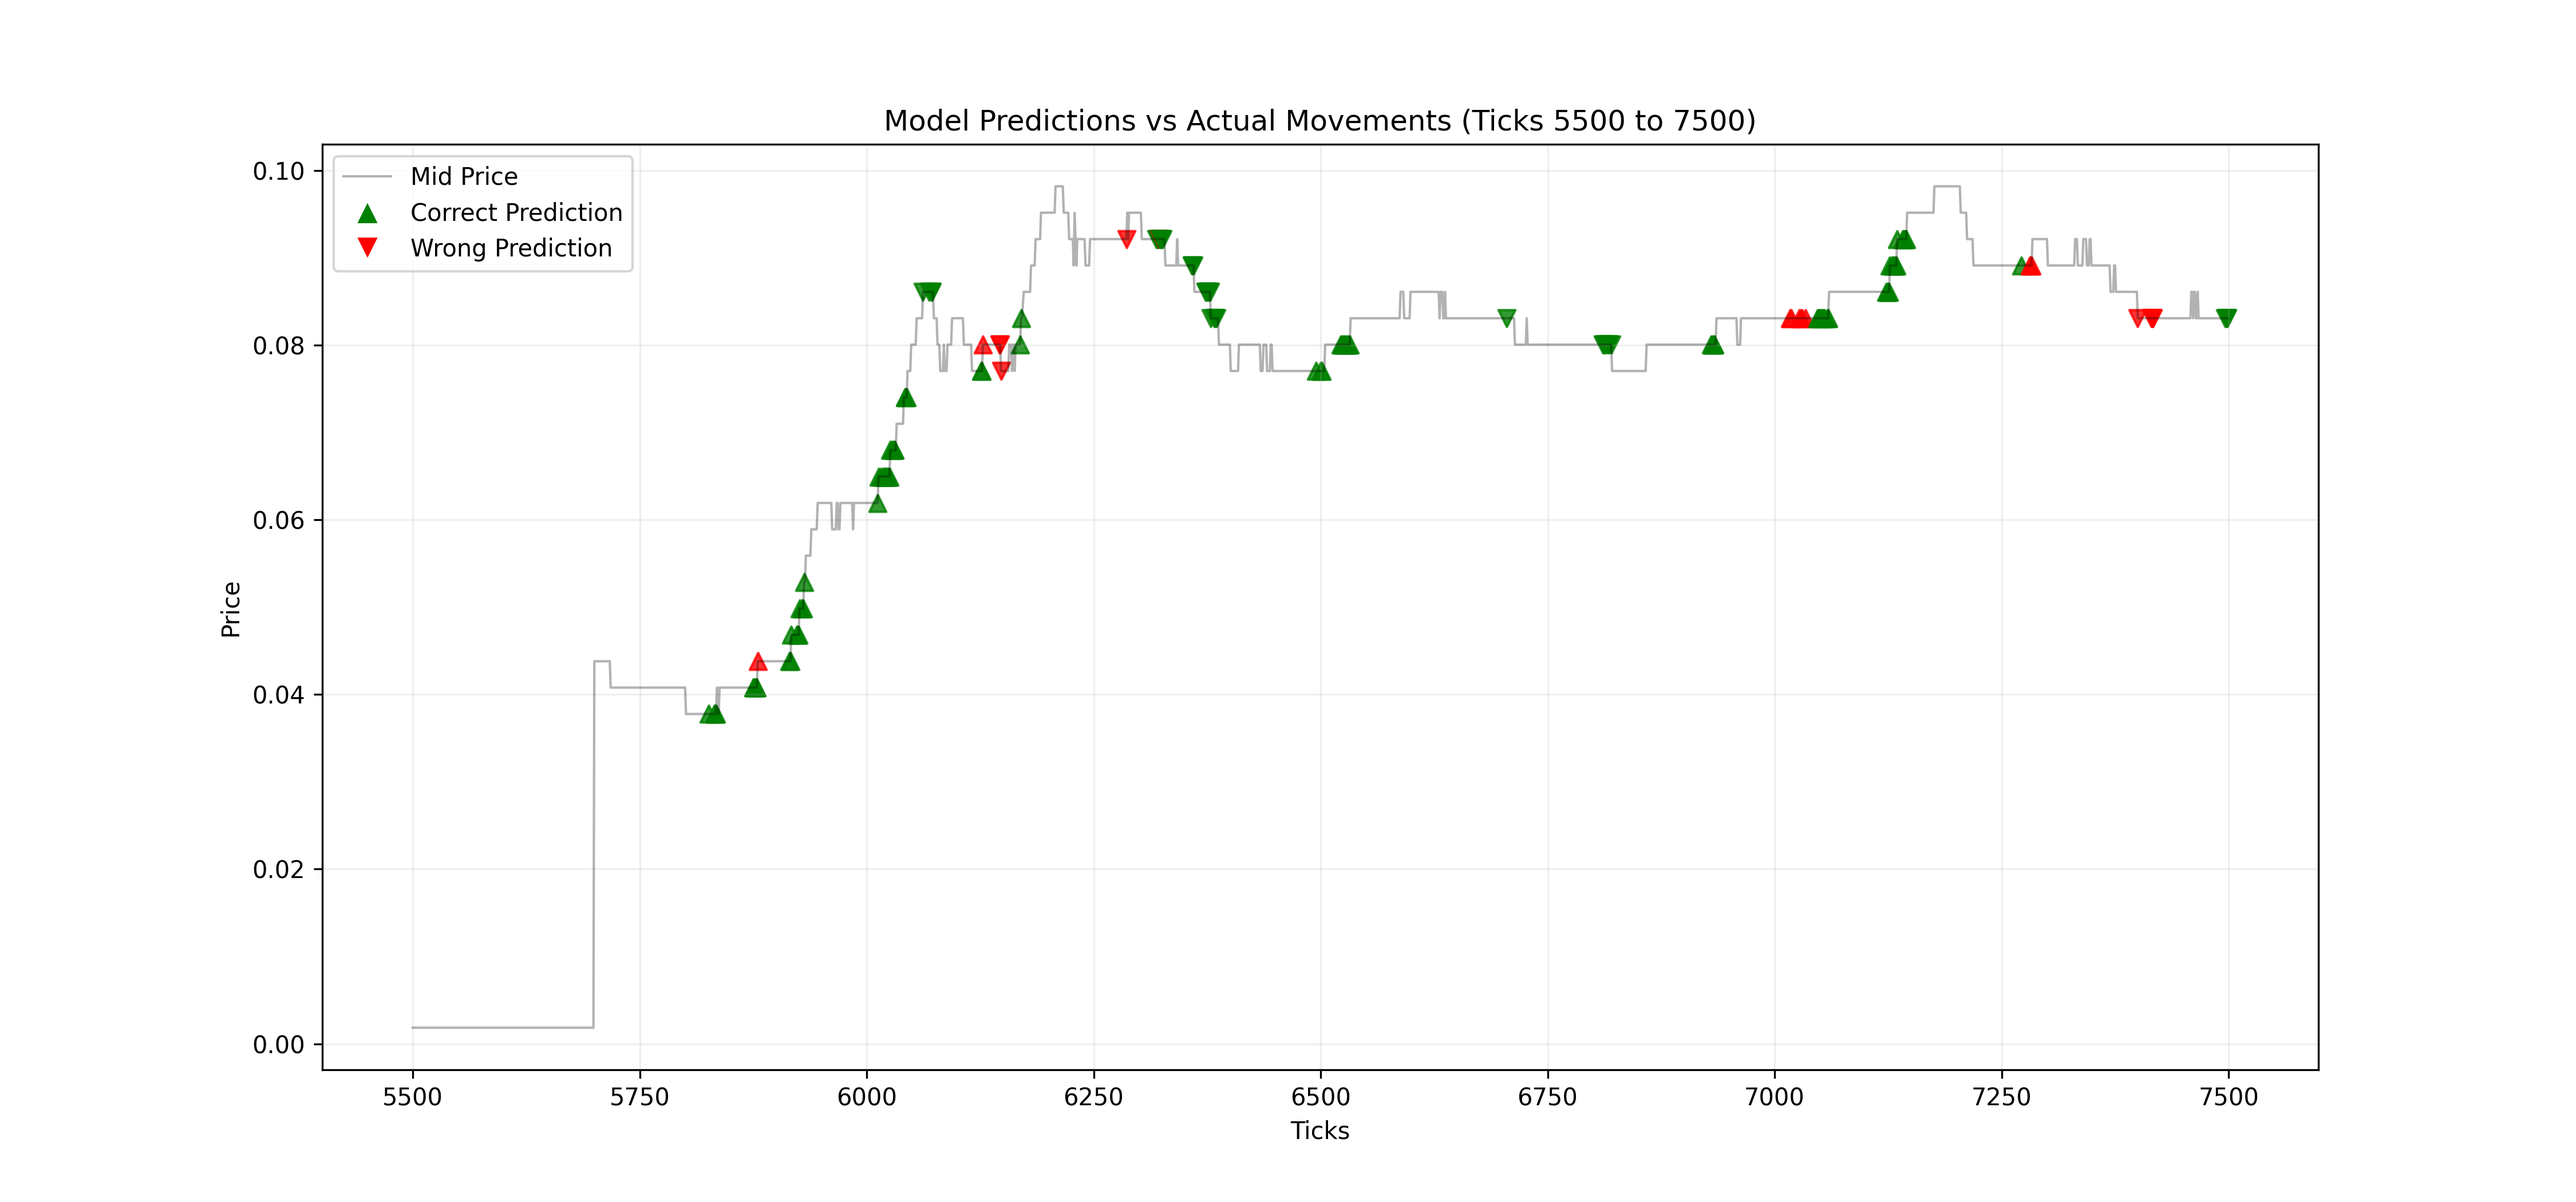
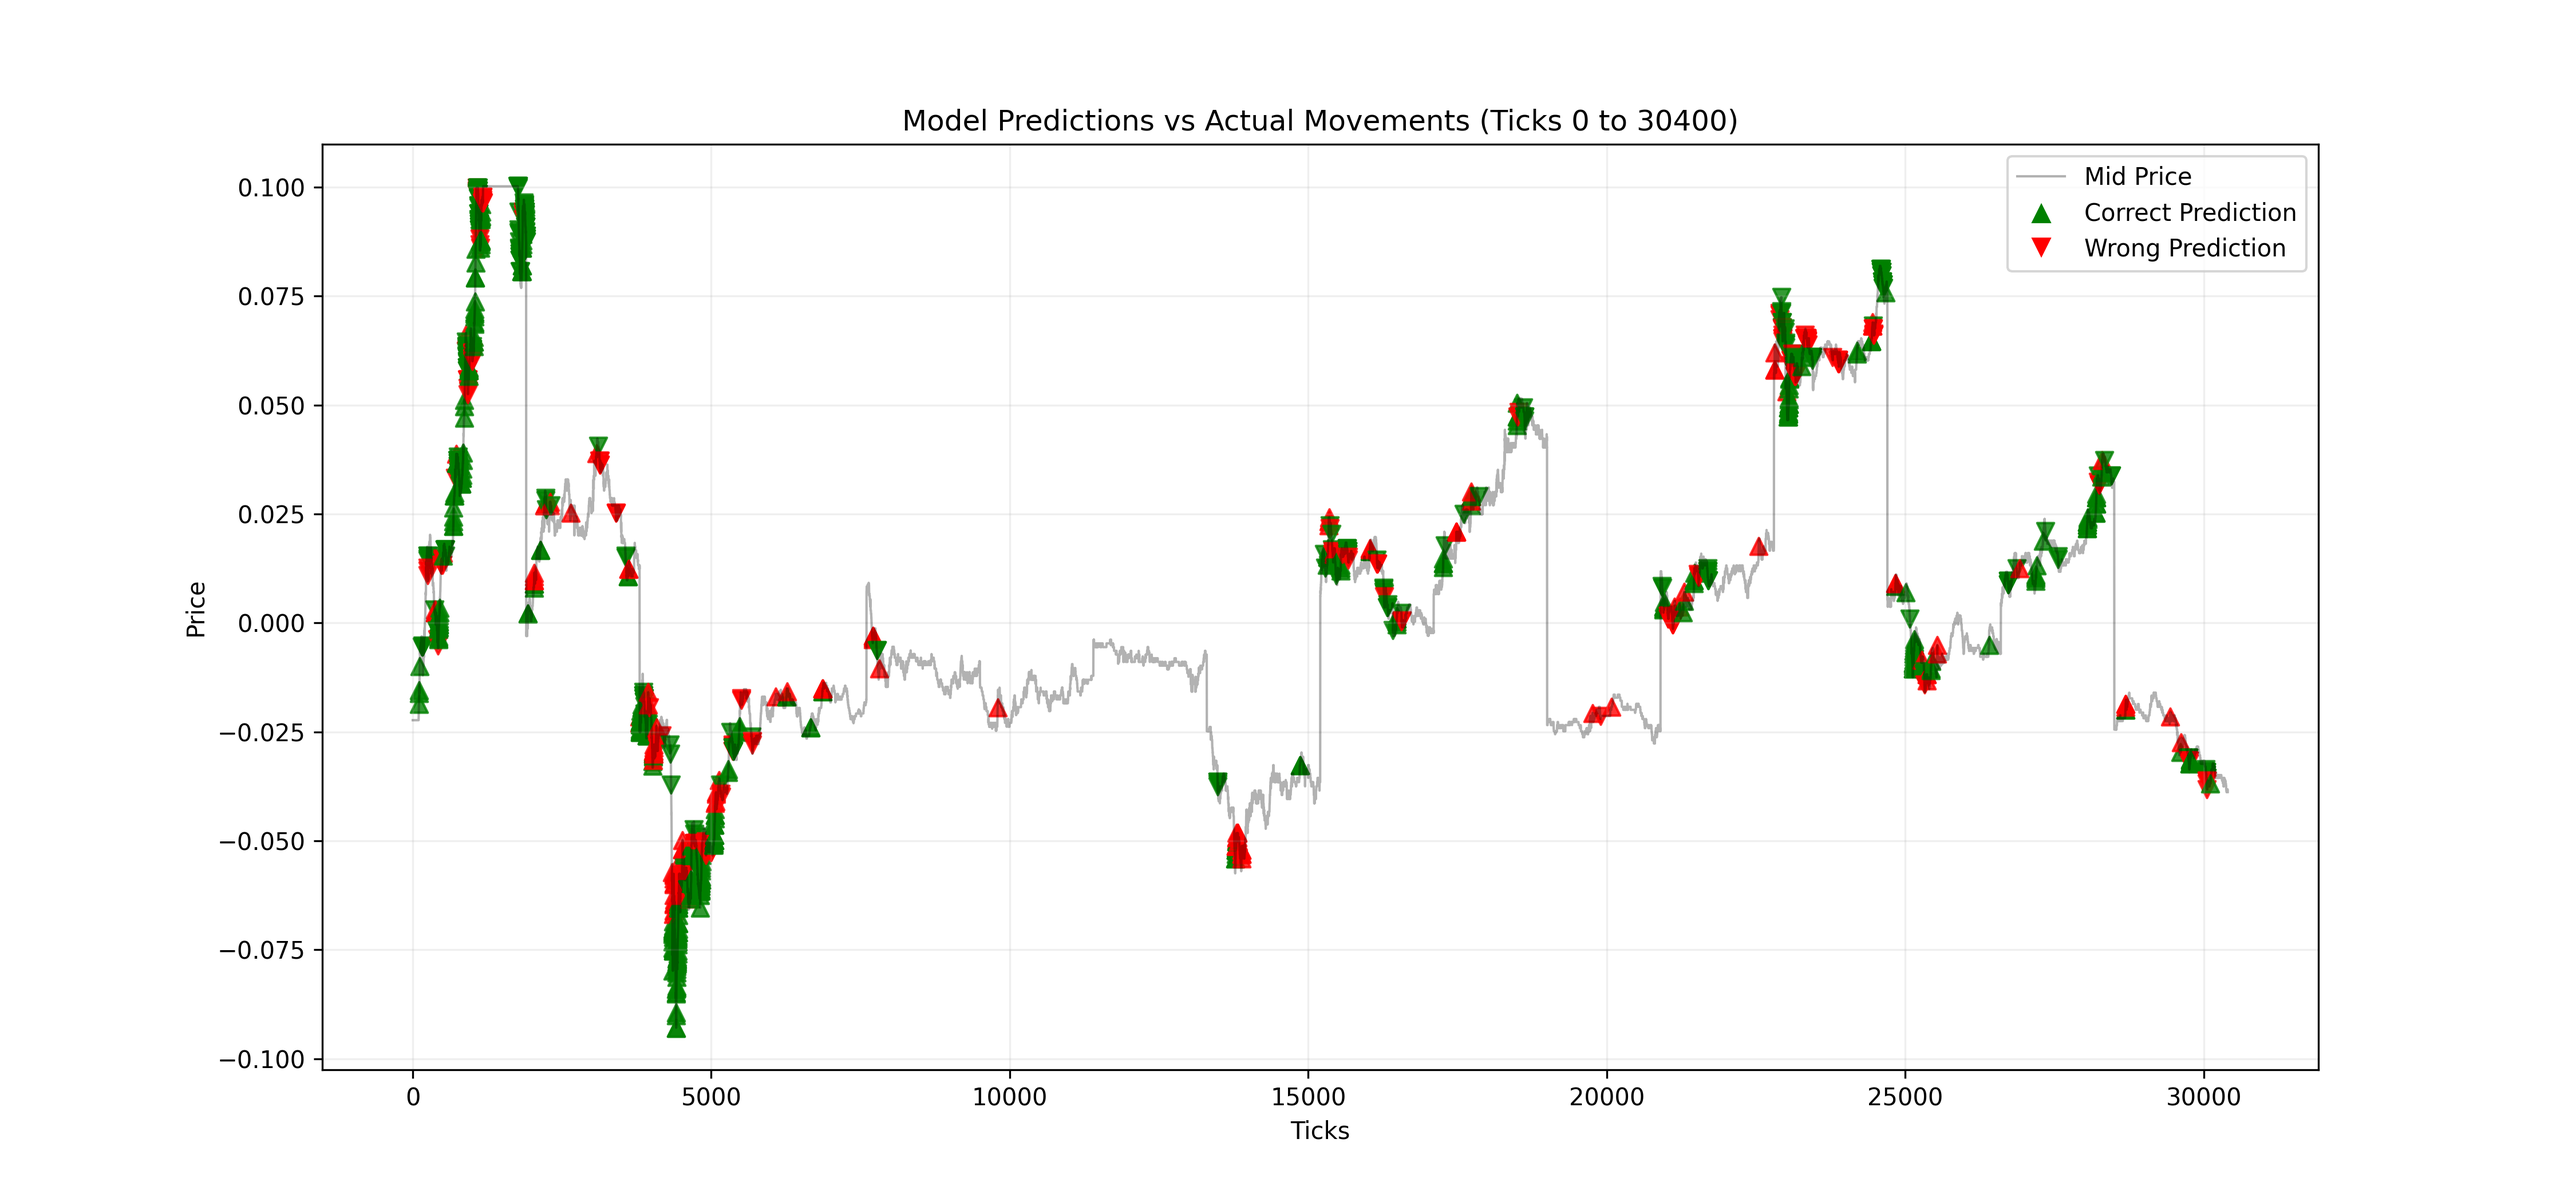
fix: nothing

diff --git a/mmpc/train.py b/mmpc/train.py
@@ -232,7 +232,7 @@ def test(test_files, N, model):
         print(f"Trades:      {num_trades}")
         print(f"Win Rate:    {win_rate:.3f}")
         print(f"Final Score:    {final_score:.3f}")
-# python -m mmpc.train --weight1 1.0 --weight2 0.5 --weight3 1.0 --max_depth 3 --subsample 0.6 --colsample_bytree 0.48 --min_child_weight 18 --gamma 4.3 --sym 0 --file_dir ./data/data_sym0_train
+# python -m mmpc.train --weight1 1.0 --weight2 1.0 --weight3 1.0 --max_depth 3 --subsample 0.5 --colsample_bytree 0.48 --min_child_weight 18 --gamma 4.3 --sym 1 --file_dir ./data/data_sym1_train --penalty_scale 10.0 --save_path ./models_sym1/
 if __name__ == "__main__":
     import argparse
     import shutil
@@ -309,14 +309,7 @@ if __name__ == "__main__":
             penalty_scale=args.penalty_scale,
             train_profits=train_profits
         )
-        if hasattr(model, 'save_model_path'):
-            final_path = model.save_model_path
-            # 建立 sym 目录，例如 ./models_all/sym0/best_model.json
-            standard_dir = os.path.join(args.save_path, f"sym{args.sym}")
-            os.makedirs(standard_dir, exist_ok=True)
-            shutil.copy(final_path, os.path.join(standard_dir, "best_model.json"))
-            print(f"Standardized model for sym{args.sym} saved to {standard_dir}/best_model.json")
-    
+
         print("*"*50)
         print("Finish Traing, Starting Testing...")
         print("*"*50)

diff --git a/mmpc/model.py b/mmpc/model.py
@@ -102,13 +102,11 @@ class XGBModel:
             "seed": seed,
         }
         dtrain = xgb.DMatrix(X_train, label=y_train)
-        # dtrain = xgb.QuantileDMatrix(X_train, label=y_train)
 
-        # evals = [(dtrain, "train")]
         if X_valid is not None and y_valid is not None:
             dvalid = xgb.DMatrix(X_valid, label=y_valid)
-            # dvalid = xgb.QuantileDMatrix(X_valid, label=y_valid)
             evals = [(dvalid, "valid")]
+
         from xgboost.callback import EarlyStopping
 
         es = EarlyStopping(
@@ -127,16 +125,10 @@ class XGBModel:
             callbacks=[es],
             verbose_eval=50,
         )
-
-        # best_iter = self.model.best_iteration
-        # self.model.set_attr(best_iteration=str(best_iter))
-
-        # 确保保存目录存在
         os.makedirs(save_path, exist_ok=True)
 
-        # 生成时间戳
         timestamp = datetime.now().strftime("%Y%m%d_%H%M%S")
-        filename = os.path.join(save_path, f"model_{N}_{sym}_{timestamp}.json")
+        filename = os.path.join(save_path, f"model_{N}_sym{sym}_{timestamp}_{weight1}_{weight2}_{weight3}_{max_depth}_{subsample}_{colsample_bytree}_{min_child_weight}_{gamma}_{penalty_scale}.json")
         self.model.save_model(filename)
         print(f"Model for N={N} trained and saved.")
 

diff --git a/mmpc/plot_line.py b/mmpc/plot_line.py
@@ -3,18 +3,18 @@ from .model import XGBModel
 from .test import extract_feature
 import os
 
-test_dir = "./data/data_sym1_test"
+test_dir = "./data/data_sym7_test"
 test_files = [
     os.path.join(test_dir, f) for f in os.listdir(test_dir) if f.endswith(".csv")
 ]
-model = XGBModel("/hdd/yyh/src/quant/models_ZZZ/model_20_1_20251230_215625.json")
+model = XGBModel("/hdd/yyh/src/quant/mmpc/model_20_sym7_20251231_072506.json")
 
 test_data, test_labels, n_midprice = extract_feature(files_dir=test_files, N=20)
 
 y_pred = model.predict(test_data)   # (N, 3)
 confidence = np.max(y_pred, axis=1)
 signal = np.argmax(y_pred, axis=1)
-signal[confidence < 0.75] = 1
+signal[confidence < 0.65] = 1
 
 import matplotlib.pyplot as plt
 import numpy as np
@@ -28,9 +28,9 @@ def plot_prediction_results(mid_prices, signals, labels, start_idx=0, length=500
     # 截取特定窗口的数据
     mid_prices = np.concatenate(mid_prices, axis=0)
 
-    # end_idx = len(mid_prices)
-    start_idx = 5500
-    end_idx = 7500
+    end_idx = len(mid_prices)
+    # end_idx = 7500
+    start_idx = 0
     prices = mid_prices[start_idx:end_idx]
     preds = signals[start_idx:end_idx]
     actuals = labels[start_idx:end_idx]

diff --git a/mmpc/Predictor.py b/mmpc/Predictor.py
@@ -22,7 +22,7 @@ class Predictor():
 
         for i in range(10):
             sym = f"sym{i}"
-            self.target_confidence[i] = config[sym]["best_confidence"]
+            self.target_confidence[i] = config[i]["best_confidence"]
             # path_dir = os.path.join(os.path.dirname(__file__), "models_"+sym)
             # model_path = os.listdir(path_dir)[-1]
             # self.models[i] = XGBModel(os.path.join(path_dir, model_path))
@@ -48,6 +48,9 @@ class Predictor():
 
     def predict(self, x: List[pd.DataFrame]) -> List[List[int]]:
         # 对输入数据进行预处理
+        print(f"Predicting for sym: {int(x[0]['sym'].iloc[0])}, number of dataframes: {len(x)}")
+        if int(x[0]['sym'].iloc[0]) != 1:
+            return [[1]*len(x[0])]  # 仅对sym1进行预测，其他返回不变信号
         model = self.models[int(x[0]['sym'].iloc[0])] # 由于一个list中sym一样
         confidence = self.target_confidence[int(x[0]['sym'].iloc[0])]
         print(f"Received {len(x)} dataframes for prediction.")
